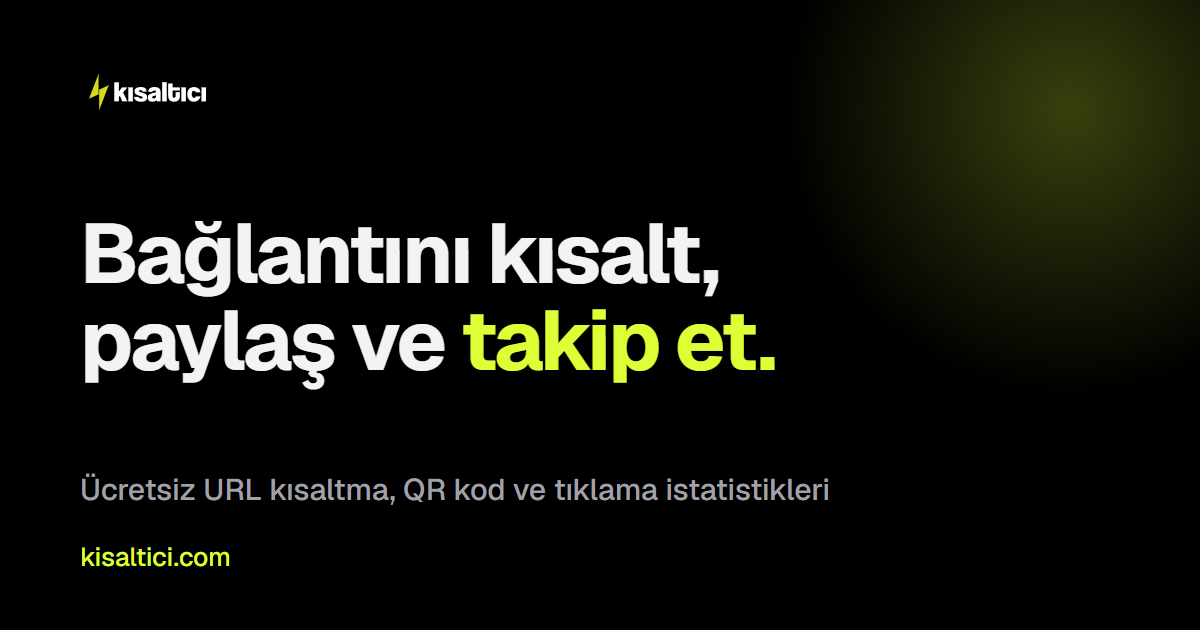
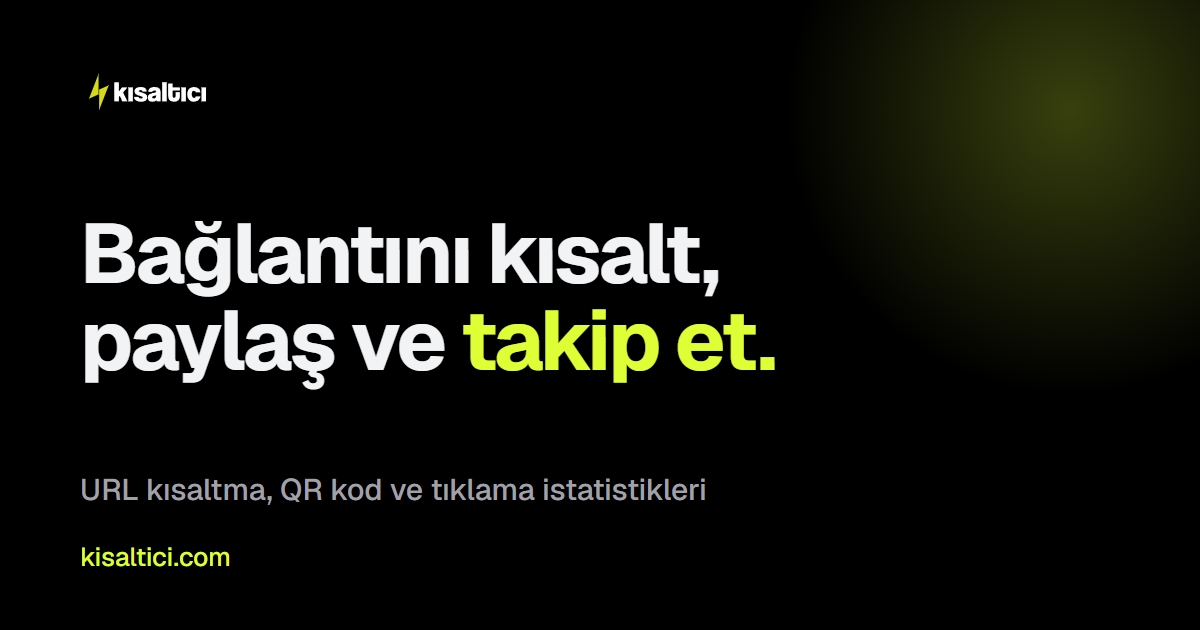
fix: drop 'ücretsiz' from SEO title, descriptions and share image

Changed region(s): [[0.0617, 0.754, 0.7092, 0.8143]]

diff --git a/index.html b/index.html
@@ -3,8 +3,8 @@
   <head>
     <meta charset="UTF-8" />
     <meta name="viewport" content="width=device-width, initial-scale=1.0" />
-    <title>Kısaltıcı | Ücretsiz URL Kısaltma, QR Kod ve Link Takibi</title>
-    <meta name="description" content="Uzun bağlantıları saniyeler içinde kısalt, markana uygun QR kod oluştur ve tıklamaları takip et. Üyeliksiz dene, ücretsiz başla." />
+    <title>Kısaltıcı | URL Kısaltma, QR Kod ve Link Takibi</title>
+    <meta name="description" content="Uzun bağlantıları saniyeler içinde kısalt, markana uygun QR kod oluştur ve tıklamaları takip et. Üyeliksiz hemen dene." />
     <meta name="robots" content="index, follow, max-image-preview:large, max-snippet:-1" />
     <meta name="theme-color" content="#000000" />
     <link rel="canonical" href="https://kisaltici.com/" />
@@ -17,15 +17,15 @@
     <meta property="og:type" content="website" />
     <meta property="og:site_name" content="Kısaltıcı" />
     <meta property="og:locale" content="tr_TR" />
-    <meta property="og:title" content="Kısaltıcı | Ücretsiz URL Kısaltma, QR Kod ve Link Takibi" />
-    <meta property="og:description" content="Uzun bağlantıları saniyeler içinde kısalt, markana uygun QR kod oluştur ve tıklamaları takip et. Üyeliksiz dene, ücretsiz başla." />
+    <meta property="og:title" content="Kısaltıcı | URL Kısaltma, QR Kod ve Link Takibi" />
+    <meta property="og:description" content="Uzun bağlantıları saniyeler içinde kısalt, markana uygun QR kod oluştur ve tıklamaları takip et. Üyeliksiz hemen dene." />
     <meta property="og:url" content="https://kisaltici.com/" />
     <meta property="og:image" content="https://kisaltici.com/og-image.png" />
     <meta property="og:image:width" content="1200" />
     <meta property="og:image:height" content="630" />
     <meta property="og:image:alt" content="Kısaltıcı: bağlantını kısalt, paylaş ve takip et" />
     <meta name="twitter:card" content="summary_large_image" />
-    <meta name="twitter:title" content="Kısaltıcı | Ücretsiz URL Kısaltma, QR Kod ve Link Takibi" />
+    <meta name="twitter:title" content="Kısaltıcı | URL Kısaltma, QR Kod ve Link Takibi" />
     <meta name="twitter:description" content="Uzun bağlantıları saniyeler içinde kısalt, markana uygun QR kod oluştur ve tıklamaları takip et." />
     <meta name="twitter:image" content="https://kisaltici.com/og-image.png" />
 

diff --git a/src/App.jsx b/src/App.jsx
@@ -60,9 +60,9 @@ function AppContent() {
     if (path.startsWith('/yasal')) return;
     if (path === '/') {
       applySeo({
-        title: 'Kısaltıcı | Ücretsiz URL Kısaltma, QR Kod ve Link Takibi',
+        title: 'Kısaltıcı | URL Kısaltma, QR Kod ve Link Takibi',
         description:
-          'Uzun bağlantıları saniyeler içinde kısalt, markana uygun QR kod oluştur ve tıklamaları takip et. Üyeliksiz dene, ücretsiz başla.',
+          'Uzun bağlantıları saniyeler içinde kısalt, markana uygun QR kod oluştur ve tıklamaları takip et. Üyeliksiz hemen dene.',
         path: '/',
       });
     } else {
